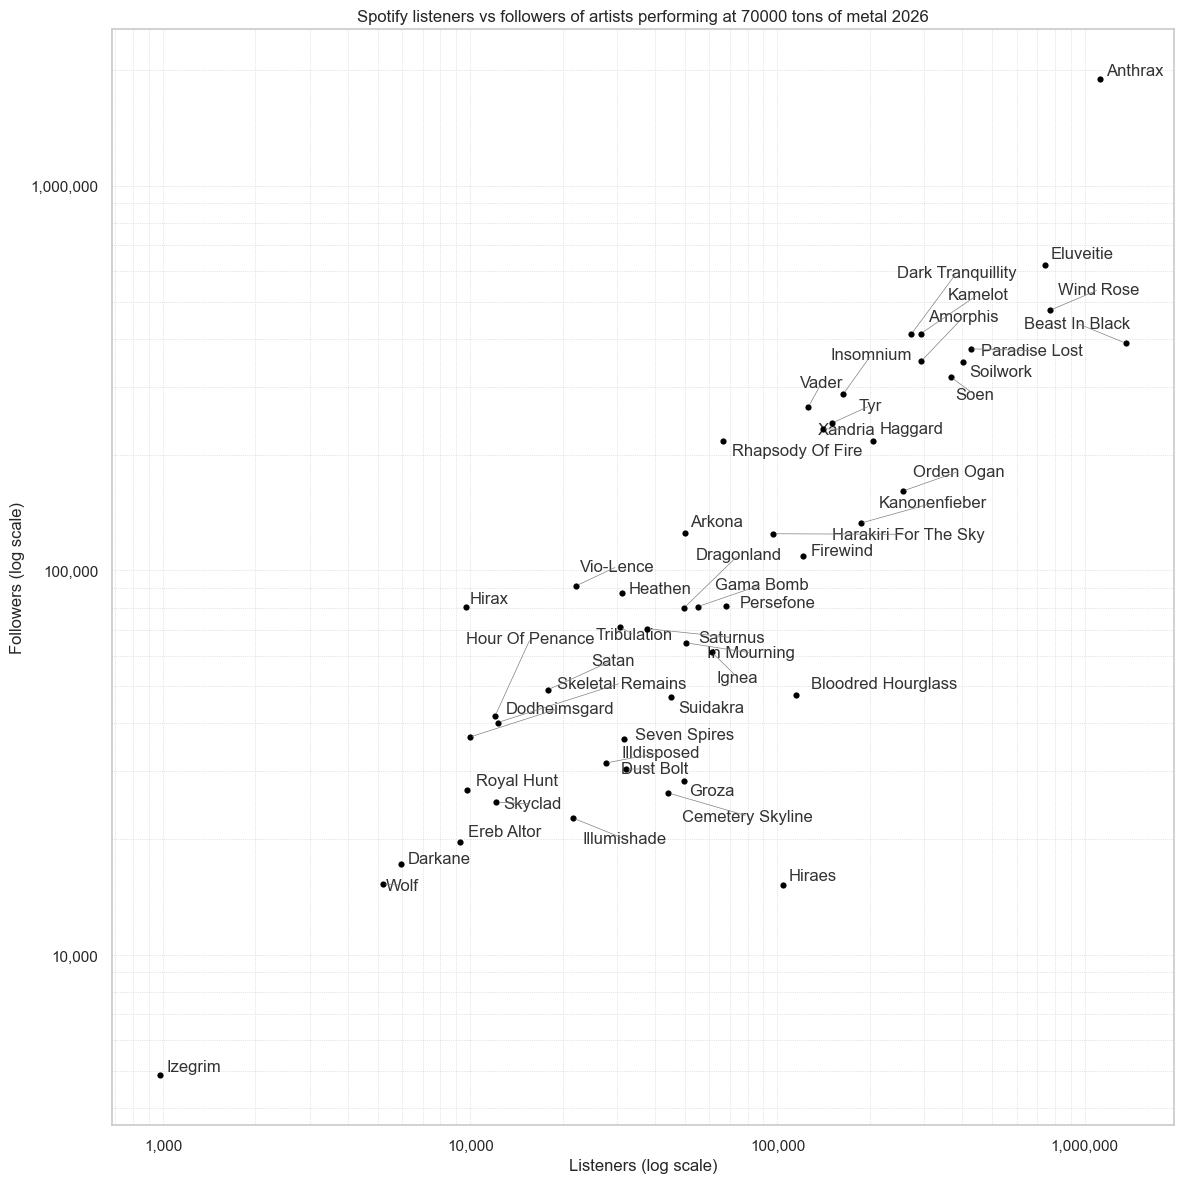
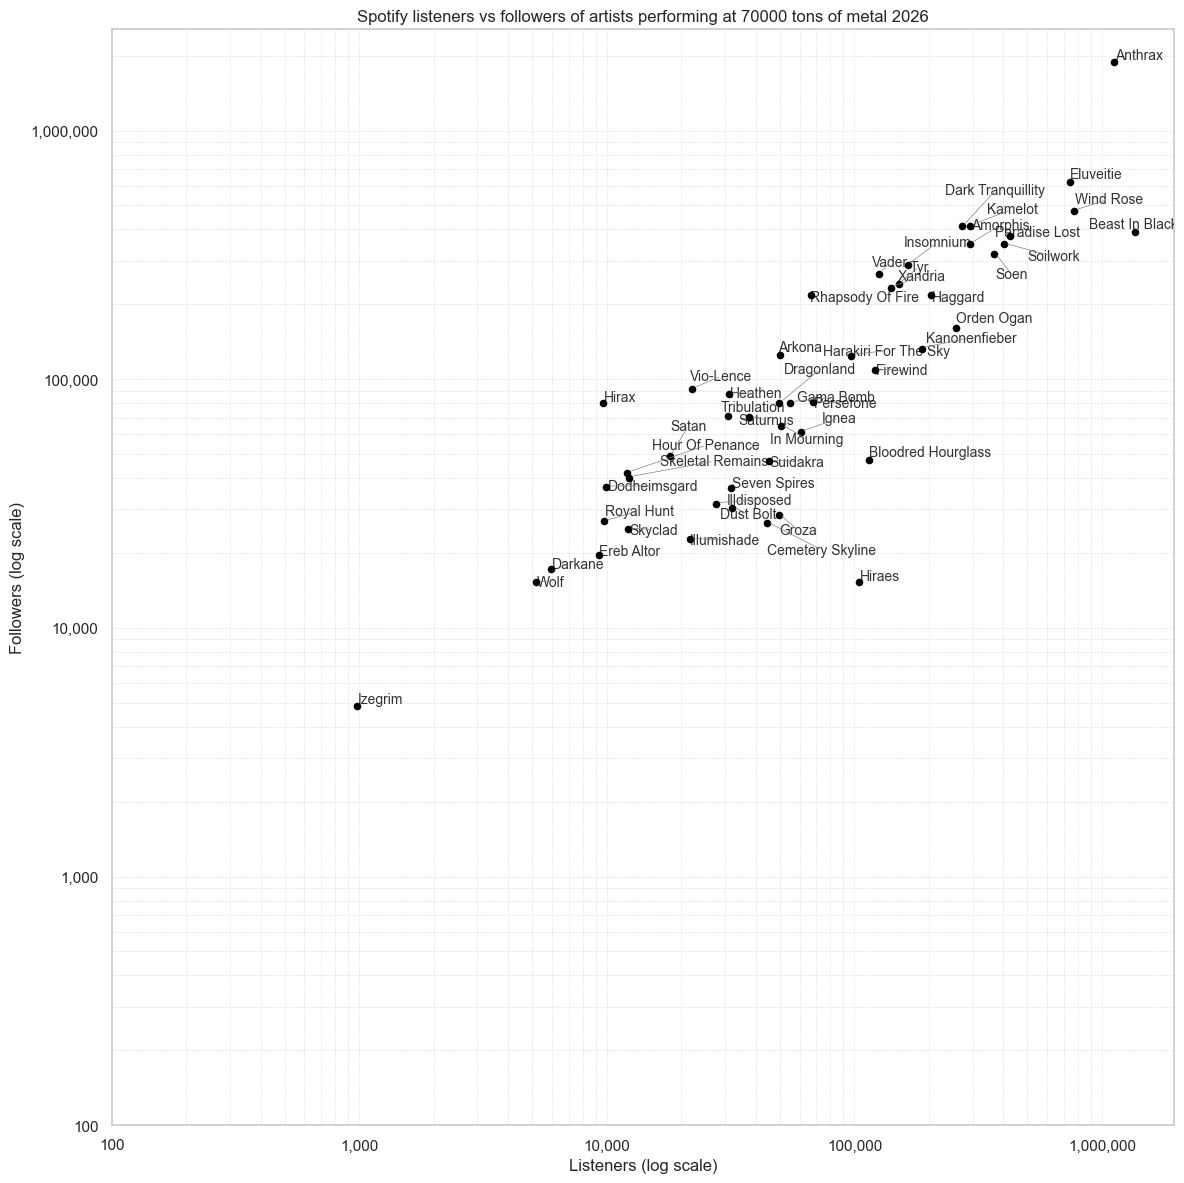
Combined 70k 2025 2026 images

diff --git a/README.md b/README.md
@@ -56,15 +56,13 @@ All projects can be found in the [`projects`](projects) folder.
 
 ### [`compare_artist_followers_listeners`](projects/compare_artist_followers_listeners/)
 
-Compare the number of [Spotify](https://open.spotify.com/us/) followers and listeners of artists performing at 70K tons of metal. This results in a scatterplot like this for the 2025 and 2026 editions:
+Compare the number of [Spotify](https://open.spotify.com/us/) followers and listeners of artists performing at 70K tons of metal and add the largest podium they perform at. This results in a scatterplot like this for the 2025 and 2026 (as released per 20 December 2025) editions:
 
-![Artist followers vs listeners 70k 2025](assets/images/Compare_artists_listeners_followers_70k_2025.png)
+![Artists at 70K 2025 and 2026](assets/images/Compare_artists_70k_2025_2026.png)
 
-![Artist followers vs listeners 70k 2026](assets/images/Compare_artists_listeners_followers_70k_2026.png)
+Comparing the profile of the artists, it looks like the 2026 edition has already invited its most popular artists and only some lesser known bands can be expected to be added to the lineup. This is not fully in line with the usual trend of 70K releasing a relatively big name in the last week before the festival.
 
-This shows that the 2026 edition of the festival (at the time of writing) has invited artists of varying popularity. The most popular artist (_Anthrax_) has a large following, though as there is a sizeable gap between their following and the next most popular artist (_Eluveitie_), this might leave room for yet another quite popular artist to be invited. This would be in line with the popularity profile of the bands that were invited to the 2025 edition. Likewise there is plenty of room for some more unknown artists to be invited, which is in line with the usual trend of 70K announcing lesser known bands in the last week befor the festival.
-
-Other than allowing for just seeing the popularity of the artists, this might also give an idea of at which stage specific artists might be performing at, and at what time they might be performing.
+Besides showing what size bands can be expected to be added to the lineup, this also gives an idea of the largest podium the artists can be expected to perform at.
 
 ---
 
